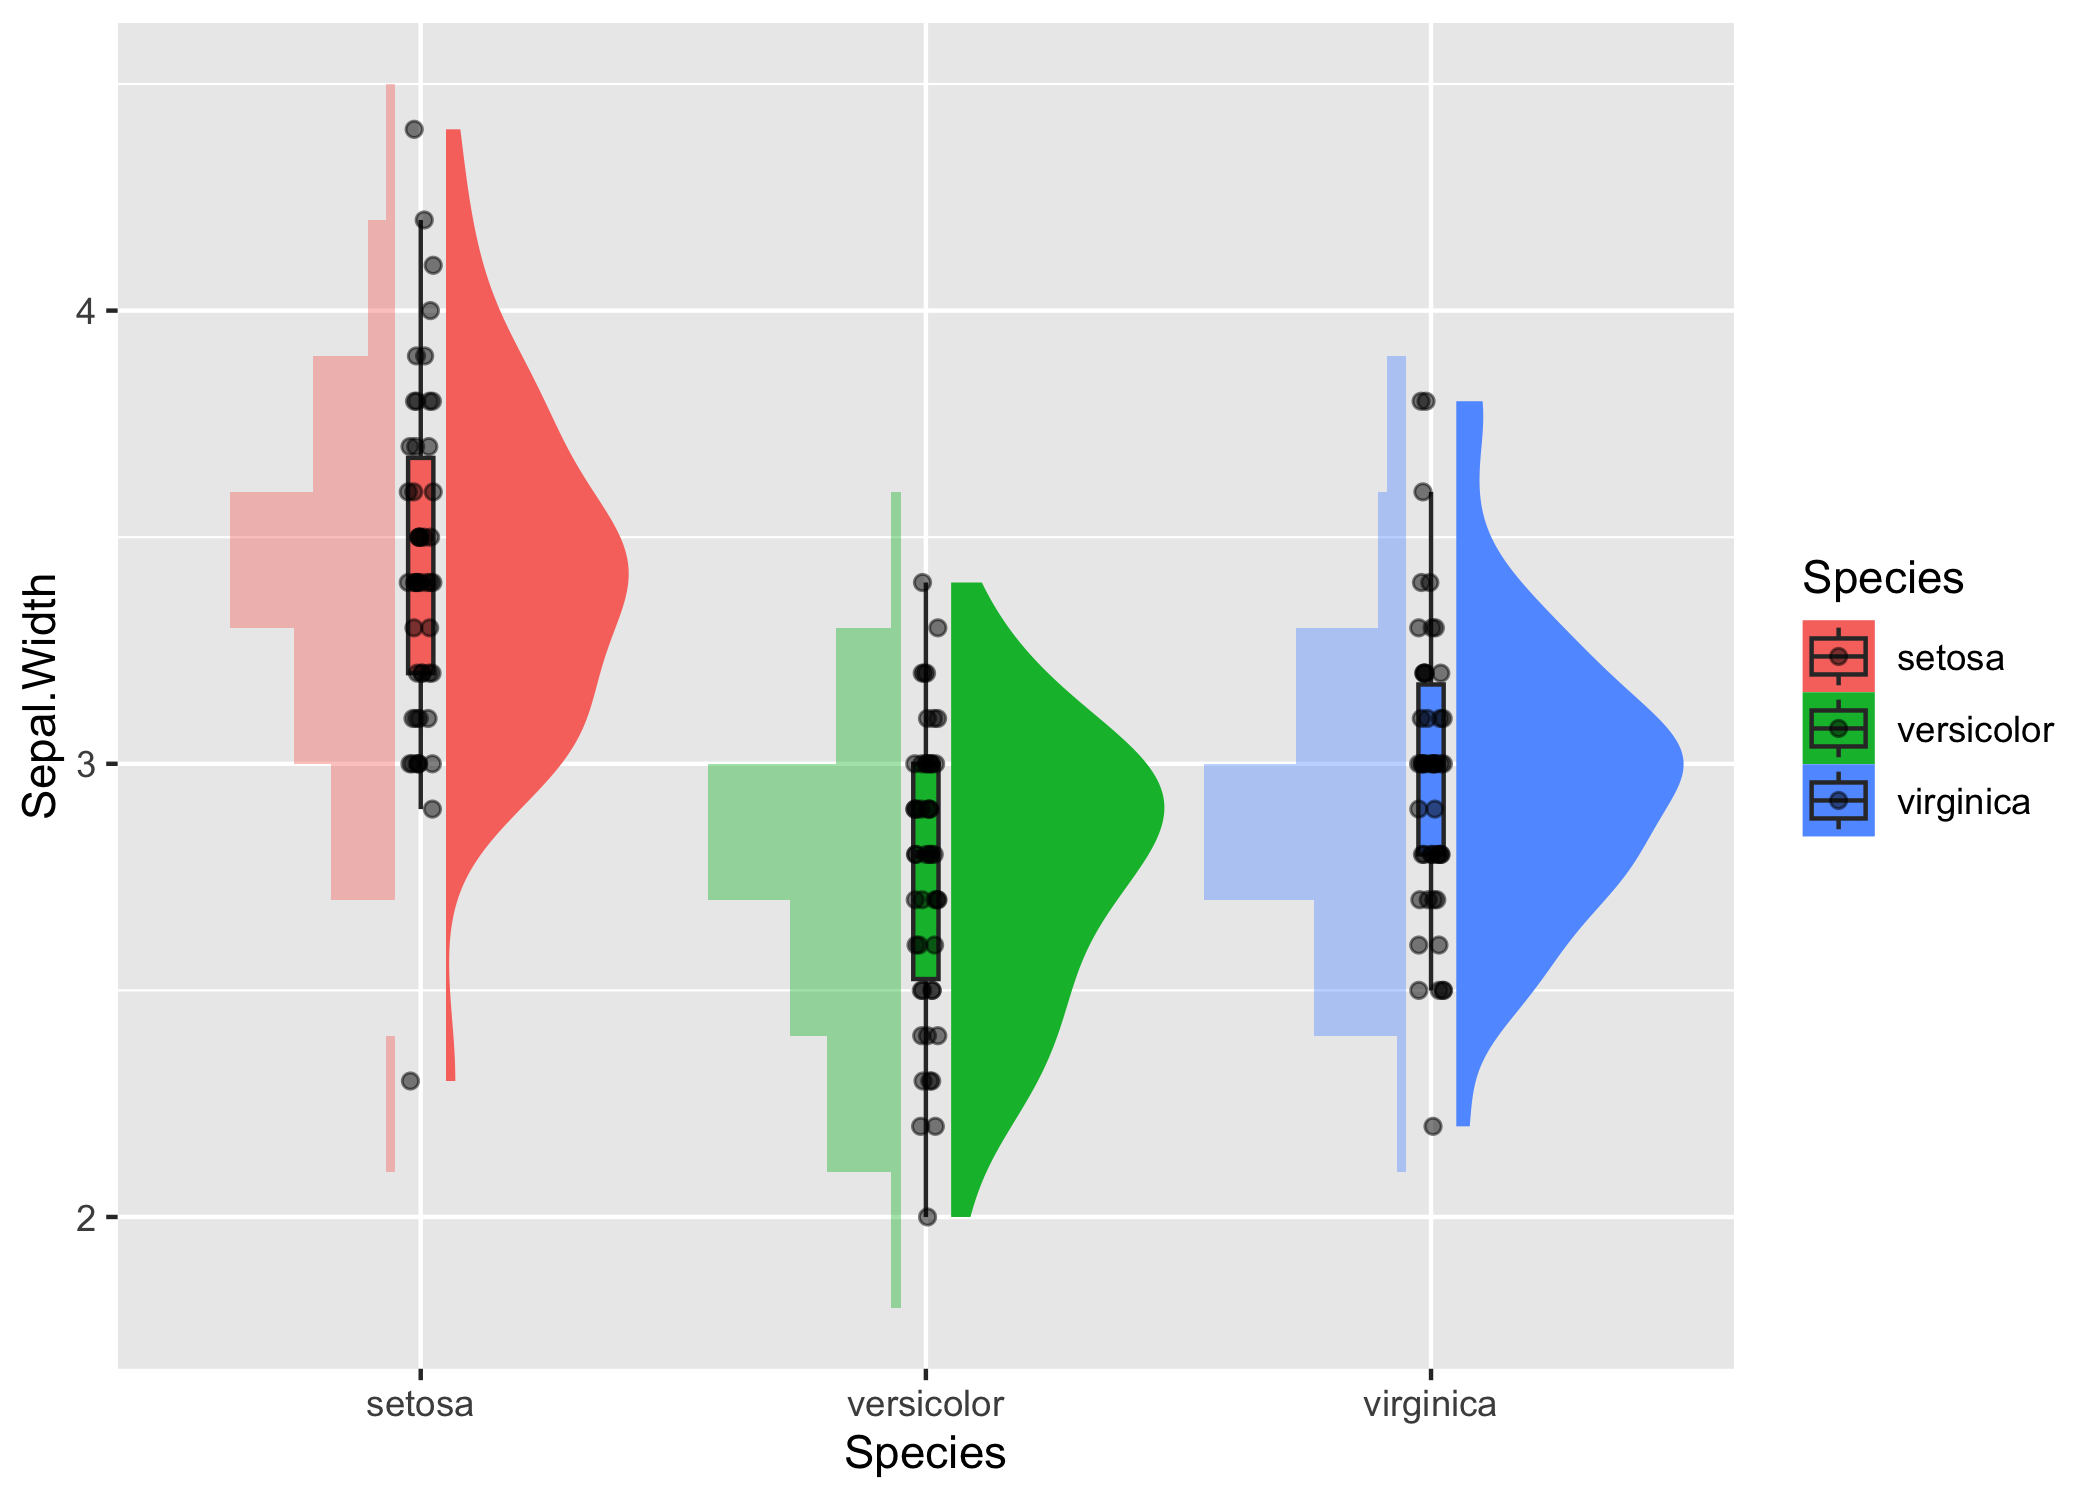
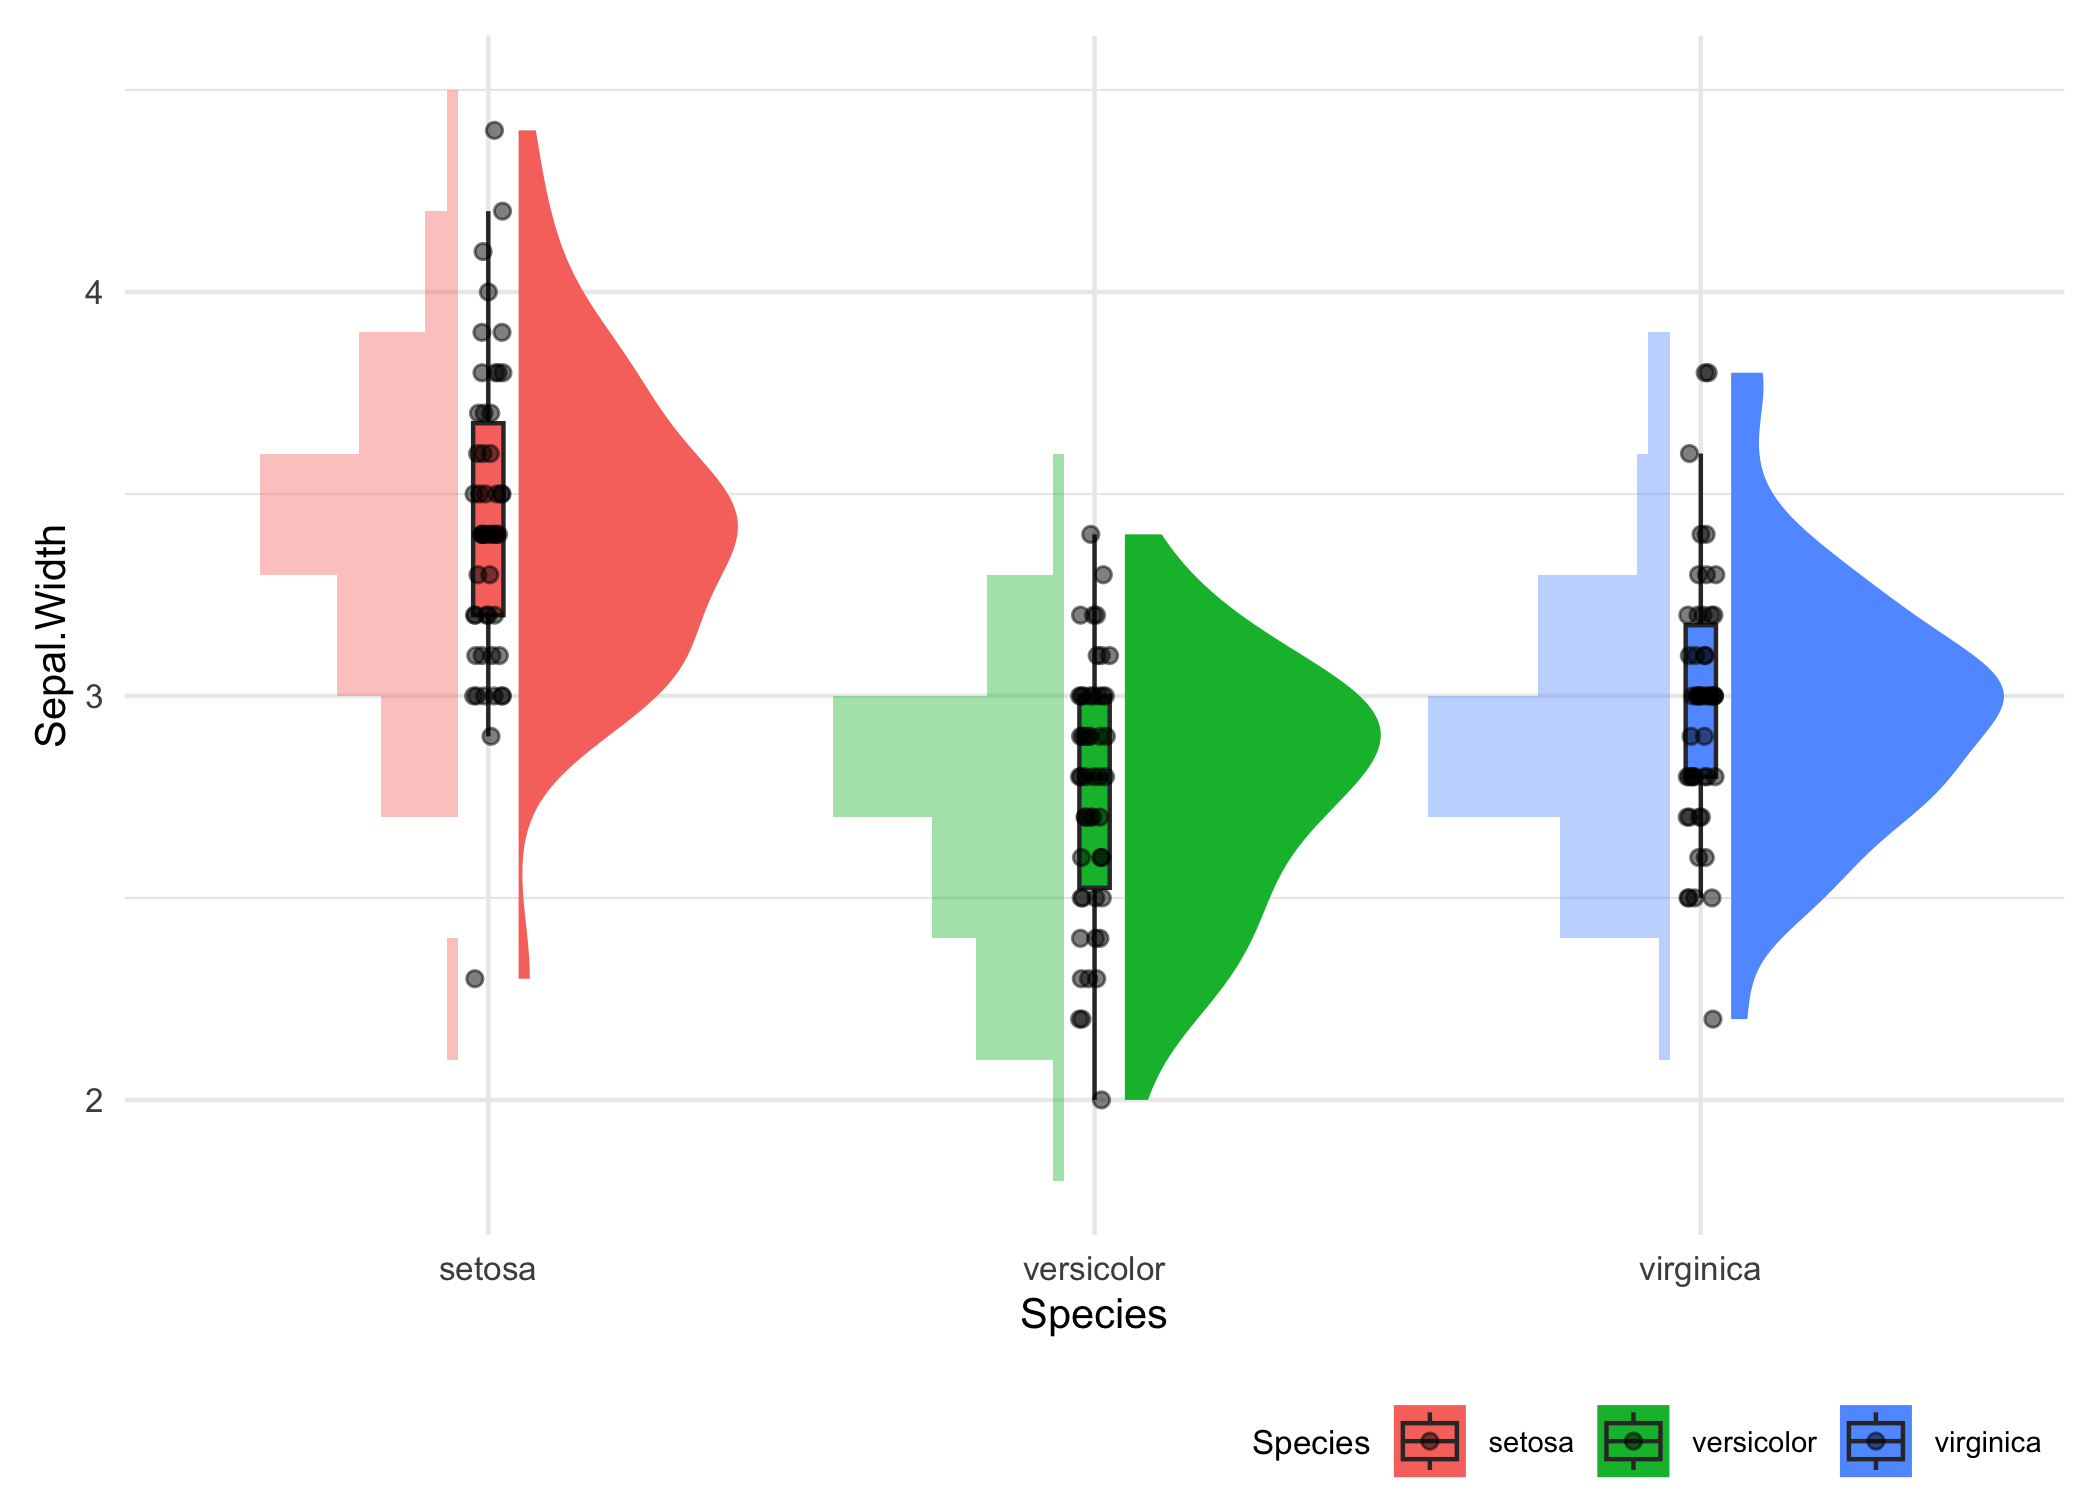
docs: restructure README and improve examples

diff --git a/README.md b/README.md
@@ -1,30 +1,47 @@
 
 <!-- README.md is generated from README.Rmd. Please edit that file -->
 
-# sdlhRTools: Personal package with custom functions for data visualization and analysis.
+# sdlhRTools
 
 <!-- badges: start -->
 
+[![Lifecycle:
+experimental](https://img.shields.io/badge/lifecycle-experimental-orange.svg)](https://lifecycle.r-lib.org/articles/stages.html#experimental)
+[![License:
+MIT](https://img.shields.io/badge/license-MIT-blue.svg)](LICENSE.md)
+
 <!-- badges: end -->
 
-The R package *sdlhRTools* aims to collect in a single place auxiliary
-functions and customized data visualization tools that I use frequently
-when working with R. This package was born with the intention of
-personal use, but I try to keep and maintain a consistent and
-comprehensive documentation.
+Personal R package with ggplot2 themes, geoms, and color palettes for
+data visualization and analysis.
 
-This is work continuously changing and under development. I welcome
-feedback, contributions and suggestions from users who may find anything
-useful here.
+The R package *sdlhRTools* collects helper functions and ggplot2
+extensions I use frequently. It started as a personal toolbox, but every
+function is documented and examples are included so others can pick up
+anything they find useful.
 
-# Installation
+The package is under active development and its API is subject to
+change. Feedback, bug reports and suggestions are welcome via [GitHub
+issues](https://github.com/sergiodlash/sdlhRTools/issues).
 
-The development version of this package is available to install from
-GitHub.
+## Overview
 
-| Type        | Source | Command                                             |
-|-------------|--------|-----------------------------------------------------|
-| Development | GitHub | `remotes::install_github("sergiodlash/sdlhRTools")` |
+| Category | Function | Description |
+|----|----|----|
+| Theme | `theme_sdlh()` | Compact minimal ggplot2 theme |
+| Geom | `geom_violinhist()` | Half violin + histogram to show distributions |
+| Palette | `scale_color_paimio()`, `scale_fill_paimio()` | Palette inspired by the Paimio Sanatorium (Alvar Aalto) |
+| Palette | `scale_color_glyptotek()`, `scale_fill_glyptotek()` | Palette inspired by the Ny Carlsberg Glyptotek |
+| Helper | `paimio_colors()`, `glyptotek_colors()` | Get palette colors as hex codes |
+
+## Installation
+
+The development version is available to install from GitHub:
+
+| Installer | Command | Notes |
+|----|----|----|
+| pak (recommended) | `pak::pak("sergiodlash/sdlhRTools")` | Fast, resolves dependencies |
+| remotes | `remotes::install_github("sergiodlash/sdlhRTools", build_vignettes = TRUE)` | Use this to also build the vignettes |
 
 Once the installation is complete, you can load the package in your R
 scripts by using:
@@ -34,32 +51,39 @@ library(ggplot2)
 library(sdlhRTools)
 ```
 
-If you encounter any issues or have suggestions, please feel free to
-open an issue on the GitHub repository.
+## Examples
 
-# Examples
+### Themes
 
-## Themes
+#### theme_sdlh()
 
-### sdlh
-
-A compact minimal theme with a bottom legend, used throughout the
-examples below.
+A compact minimal theme based on `theme_minimal()` with smaller text,
+tight margins and bottom right legend.
 
 ``` r
-ggplot(pressure, aes(temperature, pressure)) +
-  geom_point() +
-  theme_sdlh()
+library(patchwork)
+
+p <- ggplot(mtcars, aes(wt, mpg, color = factor(cyl))) +
+    geom_point(size = 2) +
+    labs(
+      x = "Weight (1000 lbs)",
+      y = "Miles per gallon",
+      color = "Cylinders"
+    )
+
+(p + ggtitle("ggplot2 default") + theme_grey()) |
+(p + ggtitle("Custom Theme") + theme_sdlh())
 ```
 
 <img src="man/figures/README-sdlh-1.png" alt="" width="90%" />
 
-## Geoms
+### Geoms
 
-### Violin hist
+#### geom_violinhist()
 
-The `geom_violinhist` plots a half violin and a histogram to show data
-distributions.
+The `geom_violinhist()` plots a half violin and a histogram together.
+This shows both the smoothed density and the binned counts of each group
+in a single layer.
 
 ``` r
 ggplot(iris, aes(Species, Sepal.Width, fill = Species)) +
@@ -68,6 +92,10 @@ ggplot(iris, aes(Species, Sepal.Width, fill = Species)) +
 ```
 
 <img src="man/figures/README-violinhist-1-1.png" alt="" width="90%" />
+
+Because it is a regular ggplot2 layer, it can be combined with other
+geoms. For example, adding a small `nudge_value` leaves a gap in the
+middle for a boxplot and the raw data points:
 
 ``` r
 ggplot(iris, aes(x = Species, y = Sepal.Width, fill = Species)) +
@@ -83,14 +111,19 @@ ggplot(iris, aes(x = Species, y = Sepal.Width, fill = Species)) +
     height = 0,
     width = 0.025,
     alpha = 0.5
-  )
+  ) +
+  theme_sdlh()
 ```
 
 <img src="man/figures/README-violinhist-2-1.png" alt="" width="90%" />
 
-## Color Palettes
+See `vignette("geom_violinhist", package = "sdlhRTools")`
+([source](vignettes/geom_violinhist.Rmd)) for more example and styling
+options.
 
-### Paimio Sanatorium
+### Color palettes
+
+#### Paimio Sanatorium
 
 Color palette inspired in the Paimio Sanatorium by architect Alvar Aalto
 in Finland.
@@ -109,7 +142,7 @@ ggplot(iris, aes(x = Sepal.Length, y = Sepal.Width, color = Species)) +
 
 <img src="man/figures/README-paimio-1.png" alt="" width="90%" />
 
-### Ny Carlsberg Glyptotek
+#### Ny Carlsberg Glyptotek
 
 Color palette inspired in the Ny Carlsberg Glyptotek in Copenhagen.
 
